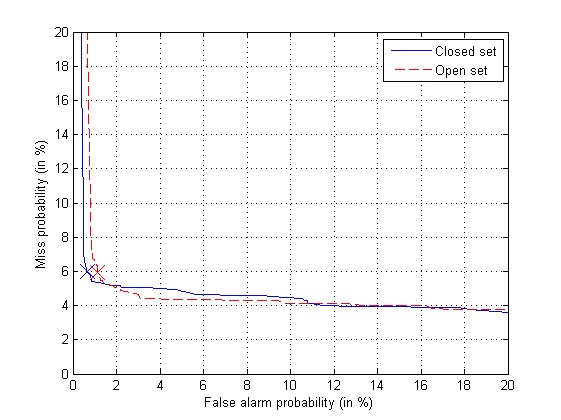
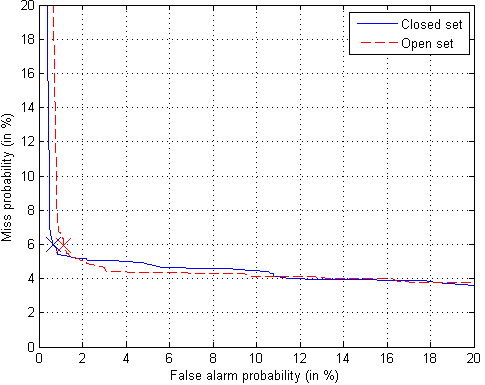
... skriving igjen

diff --git a/latex/matter/implivector.tex b/latex/matter/implivector.tex
@@ -68,7 +68,7 @@ One possible solution to the problems with the default system would be to train 
 	\end{center}
 \end{figure}
 
-The likelihoods for training and development documents during this training process is shown in figure \ref{resetlike}. From the figure we see that the likelihood for both training and development utterances ceases to increase after a few iterations and $\mathbf{T}$ never becomes over-fitted to the training data. Still the likelihoods during this training method is smaller than the likelihoods we got using the standard training method, shown in figure \ref{fig:vanivecttrainlike}. This is not so unexpected since we restrict the iVectors by resetting them before each iteration. During iVector extraction, where the iVectors are given more iterations to converge to their maxima, this difference in likelihood vanishes.
+The likelihoods for training and development documents during this training process is shown in figure \ref{resetlike}. From the figure we see that the likelihood for both training and development utterances ceases to increase after a few iterations and $\mathbf{T}$ never becomes over-fitted to the training data. Still the likelihoods during this training method is smaller than the likelihoods we got using the standard training method, shown in figure \ref{fig:vanivecttrainlike}. This is not so unexpected since we restrict the iVectors by resetting them before each iteration. During iVector extraction, where the iVectors are given more iterations to converge to their maxima, the likelihood for development data even slightly exceeded the maximum likelihood we got from the standard training method.
 
 \begin{figure}[hbt!]
 	\begin{center}
@@ -78,12 +78,12 @@ The likelihoods for training and development documents during this training proc
 	\end{center}
 \end{figure}
 
-In figure \ref{fig:resetidrate} we compare the identification rate of the standard and reset-trained sytems on 30 second development vectors. As expected the reset-trained system has a higher identification rate when iVectors are extracted with few iterations. It is more surprising that the identification rate for the standard system doesn't exceed the reset trained system at any iteration. We're not sure of the reason for this, or if this improvement extends to other data-sets. It might be that the reset-training results in less \emph{model variance}, since $\mathbf{T}$ is trained on iVectors that have only captured coarse details of the utterances. 
+In figure \ref{fig:resetidrate} we compare the identification rate of the standard and reset-trained sytems on 30 second development vectors. As expected the reset-trained system has a higher identification rate when iVectors are extracted with few iterations. It is more surprising that the identification rate for the standard system doesn't exceed the reset trained system at any iteration. We're not sure if this improvement would extend to other data-sets or systems. It might be that the reset-training results in the system having less \emph{model variance}, since $\mathbf{T}$ is trained on iVectors that have only captured coarse details of the utterances. The standard training method on the other hand is able to model minor details in utterances. Although the updates of $\mathbf{T}$ stop before this results in a deteroration of the development likelihood, the modelling of the minor details might offer little discriminative information for unseen data. This slight over-fitting is also supported by the earlier observation that we achieved a higher likelihood for development utterances during iVector extraction, when we used the reset trained total variability matrix.
 
 \section{iVector Dimension}
 \label{sect:ivectdimtests}
 
-A very important parameter that hasn't been much discussed is the iVector dimension. Since there will be more degrees of freedom, it seems natural that a higher iVector-dimension will result in lower likelihood for both training and development vectors. Still, this does not mean that we should use iVectors of high dimension. A high likelihood does not neccessarily mean that the system will perform better, and using low-dimension iVectors is less computational intensive.  In figure \ref{fig:dimidrate} we show the identification rate for the standard and reset-trained iVector system. We have both trained and tested the classifier using iVectors that where extracted with the same number of Newton Raphson updates. This follows our previous logic of accommodating so that training, development and test iVectors all come from as similar as possible statistical distributions. The number of iterations that gave the best result varied with each system. As we see, the reset-trained system consistently outperformed the regular system regardless of dimension. Most notably, it performed much better at lower dimensions.
+A very important parameter that hasn't been much discussed is the iVector dimension. Since there will be more degrees of freedom, it seems natural that a higher iVector-dimension will result in lower likelihood for both training and development vectors. Still, this does not mean that we should use iVectors of high dimension. A high likelihood does not neccessarily mean that the system will perform better, and using low-dimension iVectors is less computational intensive.  In figure \ref{fig:dimidrate} we show the identification rate for the standard and reset-trained iVector system. We have both trained and tested the classifier using iVectors that where extracted with the same number of Newton Raphson updates. This follows our previous logic of accommodating so that training, development and test iVectors all come from as similar as possible statistical distributions. The number of extraction iterations that gave the best result varied with each system. As we see, the reset-trained system consistently outperformed the regular system regardless of dimension.
 
 \begin{figure}[hbt!]
 	\begin{center}
@@ -93,9 +93,11 @@ A very important parameter that hasn't been much discussed is the iVector dimens
 	\end{center}
 \end{figure}
 
-It should be noted that the difference between the best and the worst results is only about 35 more correctly identified utterances out of about 1500. We only try a discrete set of penalty-parameters for the classifier, and also plain luck might simply make a few utterances in an iVector-space of some dimension barely cross over the decision boundary to the wrong or correct class. This explains some of the noise in the performance results, and why it is difficult to see clear trends in the performance when increasing or decreasing the performance. The dimension that performed best in the test might not objectively be best suited to separate the languages, and it is no guarantee that it will perform best on the NIST test set. For the final system we used the $150$-dimensional reset-trained iVector system. Although the $250$ dimensional system performed slightly better on the devtest vectors, the high dimensionality made the system much slower to train and test. The $150$-dimensional system performed best when iVectors where extracted with four iterations of Newton Raphson updates.
+It should be noted that the difference between the best and the worst results is only about 35 more correctly identified utterances out of about 1500. We only try a discrete set of penalty-parameters for the classifier, and also plain luck might simply make a few utterances in an iVector-space of some dimension barely cross over the decision boundary to the wrong or correct class. This explains some of the noise in the performance results, and why it is difficult to see clear trends in the performance when increasing or decreasing the performance. The dimension that performed best in the test might not objectively be best suited to separate the languages, and it is no guarantee that it will perform best on the NIST test set. For the final system we used the $150$-dimensional reset-trained iVector system. Although the $250$ dimensional system performed slightly better on the devtest vectors, the high dimensionality made the system much slower to train and test. 
+%The $150$-dimensional system performed best when iVectors where extracted with four iterations of Newton Raphson updates.
 
 \section{System for Shorter Duration Utterances}
+\label{sect:ivectshort}
 
 In the past sections we have based our design decisions for the iVector systems performance on 30 second utterances. At least to some degree, many of these decisions should be valid for the 10 and 3 second tests as well. In section \ref{sect:docvectlength} we argued that the total variability matrix could, and should, be trained using long-duration utterances. For the reset-trained total variability matrix, over-fitting wasn't an issue, so it would probably make little difference for the final matrix to check for over-fitting using shorter duration development vectors. This all suggests that the same total variability matrix could be used for utterances of all sizes. 
 

diff --git a/latex/matter/detresults.tex b/latex/matter/detresults.tex
@@ -1,13 +1,35 @@
 \chapter{Detection Performance}
 
-\section{Baseline 30 second}
+In this chapter we will present the performance for the basline and iVector system both for open and closed set detection.
+
+\section{Baseline System on 30 Second Utterances}
+
+In figure \ref{fig:basedet30} the DET-curve for the baseline system is shown. The system achieved an $C_{\text{Det}}$ of $0.0330$ for the closed set and $0.0478$ for the open set evaluations. From the DET-curve we see that the miss probability cannot be reduced to below about $4$\% without a severe increase in false alarms. This might be because the bayesian models are capable of discriminating classes, even though they give poor probability estimates \cite{mccallum1998comparison}. Usually the score-vector (which was the probability for each class) used in the backend was dominated by one class with a probability close to $1$. This made the score-vector contain almost no information for alternative suggestions to the dominating class, so the backend had to make blind guesses if it were to further reduce the miss probability below a certain point. The EER is seen to be beyond the point where the miss-probability stagnates, and is $4.91$\% and $4.38$\% for the closed and open set respectively.
+
+\begin{figure}[hbt!]
+\begin{center}
+	\includegraphics[width=0.8\textwidth]{figures/baseDet30.png}
+\end{center}
+\caption{Baseline system DET-curves for the 30 second open and closed set NIST utterances. The crosses indicates the miss and false alarm probability used when calculating $C_{\text{Det}}$.}
+\label{fig:basedet30}
+\end{figure}
 
 %closed c_det 0.032955
 %open c_det 0.047809
 %closed EER 4.9132
 %open EER 4.375
 
-\section{iVector 30 second}
+\section{iVector system 30 second performance}
+
+The Det-curves for 30 second utterances recognized by the iVector system is shown in figure \ref{fig:ivectdet30}. A noticeable difference from the baseline system is that this sytem is more adaptable to different requirements for the miss or false alarm probability. Still the $C_{\text{Det}}$ is $0.0353$ and $0.0494$ for the closed and open set respectively which is slightly higher than the baseline system. The EER is however significantly lower, at only $2.76$\% for the closed set and $3.59$\% for the open set. The better EER should probably not be contributed to improved recognition capabilities by iVectors, but rather the shortcomings in the score-vector used by the baseline system. The difference between the open and closed set results suggest like we expected that the assumptions made to incorporate out-of-set languages weren't completely valid. E.g. at the threshold used to calculate $C_{\text{Det}}$, $55$\% of the out-of-set utterances were recognized as target language utterances. 
+
+\begin{figure}[hbt!]
+\begin{center}
+	\includegraphics[width=0.8\textwidth]{figures/ivectDet30.png}
+\end{center}
+\caption{iVector system DET-curves for the 30 second open and closed set NIST utterances. The crosses indicates the miss and false alarm probability used when calculating $C_{\text{Det}}$.}
+\label{fig:ivectdet30}
+\end{figure}
 
 %closed_cdet 0.035314
 %open c_det 0.049353
@@ -15,29 +37,76 @@
 %open  EER 3.5938
 
 
-\section{Performance on Shorter Utterances}
+\section{Ten and Three Second Performance}
+
+%\begin{table}[hbt!]
+%\begin{center}
+%\begin{tabular}{| l | c  c | c  c |}
+%\cline{2-5}
+%\multicolumn{1}{c |}{} & \multicolumn{2}{  c | }{Closed set} & \multicolumn{2}{ c |}{Open set} \\ %\cline{2-5}
+%\multicolumn{1}{c |}{} & $C_{\text{Det}}$ & EER (\%) & $C_{\text{Det}}$ & EER (\%) \\
+%\hline
+%iVector 10 sec. & 0.157 & 13.3 & 0.163 & 13.7 \\
+%iVector 3 sec. & 0.259 & 26.5 & 0.264 & 26.8 \\
+%\hline
+%Baseline 10 sec. & 0.170 & 18.6 & 0.183 & 17.0 \\
+%Baseline 3 sec. & 0.351 & 32.0 & 0.437 & 46.8 \\
+%\hline
+%\end{tabular}
+%\end{center}
+%\caption{Detection performance for the iVector and baseline system on 3 and 10 second utterances.}
+%\label{tab:shortdetrate}
+%\end{table}
+
+The DET-curves for the 3 and 10 second tests of the baseline and iVector system are shown in figure \ref{fig:sysdetshort}. The iVector system is seen to outperform the baseline system for these conditions.  There are only minor differences between the open and closed set results, except for the three second baseline performance. This was caused by the backend recognizing more target language utterances than out-of-set utterances as being out-of-set. Although the assumptions made to accommodate shorter utterances in section \ref{sect:ivectshort} seems to fit fairly well, we expect that it is possible to improve these results significantly for both systems. This is supported by the comparison of other systems given in the next section, where the EER for our systems are seen to deterioate faster when the length of the utterances are reduced.
+
+\begin{figure}[hbt!]
+	\begin{center}
+		\subfloat[ ]{
+			\label{fig:ivectdetshort}
+			\includegraphics[width=0.42331288343558\textwidth]{figures/ivectDetShort.png}
+		}
+		\subfloat[ ]{
+			\label{fig:basedetshort}
+			\includegraphics[width=0.57668711656442\textwidth]{figures/baseDetShort.png}
+		}
+	\end{center}
+	\caption{DET-curves of the baseline and iVector system for 10 and 3 second NIST LRE03 utterances. (a) is the iVector performance, (b) is the baseline. The crosses indicates the point where $C_{\text{Det}}$ was calculated from.}
+	\label{fig:sysdetshort}
+\end{figure}
+ 
+\section{Comparison to Other Systems}
+
+We've listed the performance of the baseline, iVector and 6 other systems in table \ref{tab:compdetresults}. The four systems from MITLL consisted of an trigram PRLM system running in parallell with six phoneme recognizer, an acoustic GMM and SVM VSC system and the fusion of the aforementioned systems. The baseline and iVector system performed competitively against these systems for the 30 second test, but they were surpassed by the fusion system for the shorter durations. 
 
 \begin{table}[hbt!]
 \begin{center}
-\begin{tabular}{| l | c  c | c  c |}
-\cline{2-5}
-\multicolumn{1}{c |}{} & \multicolumn{2}{  c | }{Closed set} & \multicolumn{2}{ c |}{Open set} \\ %\cline{2-5}
-\multicolumn{1}{c |}{} & $C_{\text{Det}}$ & EER (\%) & $C_{\text{Det}}$ & EER (\%) \\
+\begin{tabular}{| l | c | c | c | c |}
 \hline
-iVector 10 sec. & 0.157 & 13.3 & 0.163 & 13.7 \\
-iVector 3 sec. & ? & ? & ? & ? \\
+System & 30s & 10s & 3s \\
 \hline
-Baseline 10 sec. & 0.170 & 18.6 & 0.183 & 17.0 \\
-Baseline 3 sec. & 0.351 & 32.0 & 0.437 & 46.8 \\
+iVector & 2.8 & 13.3 & 26.5 \\
+Baseline & 4.9 & 18.6 & 32.0 \\
+\hline
+MITLL-PPRLM & 6.6 & 14.3 & 25.5 \\
+MITLL-GMM & 4.8 & 9.8 & 19.8 \\
+MITLL-SVM & 6.1 & 16.4 & 28.2 \\
+MITLL-FUSE & 2.8 & 7.8 & 20.3 \\
+\hline
+BUT-SPDAT & 2.4 & 8.1 & 19.1 \\
+BUT-PRLM &1.8 & 6.6 & 18.8 \\
 \hline
 \end{tabular}
 \end{center}
-\caption{Detection performance for the iVector and baseline system on 3 and 10 second utterances.}
-\label{tab:shortdetrate}
+\caption{EER in \% for an ensamble of language recognition systems for the NIST LRE 2003 closed set evaluations. The MITLL systems are published in \cite{singer2003acoustic}, while the BUT systems are from \cite{matejka2006use}.}
+\label{tab:compdetresults}
 \end{table}
- 
+
+It is difficult to directly compare the iVector approach to other recognition systems since the performance will heavily depend on the quality of the phoneme transcripts \cite[p. 64]{butphnrec}. The BUT-SPDAT system used four phoneme recognizers for a trigram PPRLM system, but an superior performance was reached by the BUT-PRLM system. The increased recognition capabilities were partially contributed to better phoneme recognition and use of phone lattices \cite{matejka2006use}. The pphoneme recognizer in the BUT-PRLM system had an phoneme error rate similar to the phoneme recognizer we used \cite[p. 58]{butphnrec}, and lattices were only given to reduce the EER by $0.8$\% absolute \cite{matejka2006use}.  In light of this, it might have been expected from the discriminative information in our phoneme transcripts to get a higher performance than even the fused MITLL system.
 
 
+
+%The BUT-PRLM system \cite{matejka2006use} achieved superior results to the other systems in table \ref{tab:compdetresults} without fusion of multiple systems, and using a single phoneme recognizer. Better phoneme recognition, phone lattices and Among the reasons for the system's enhanced recognition capabilities
 %ivect 10:
 %closed c_det 0.15724
 %open c_det 0.1625

diff --git a/latex/matter/ivector.tex b/latex/matter/ivector.tex
@@ -116,5 +116,5 @@ In appendix \ref{sect:orthproof} we show that the increase in likelihood by upda
 
 In an iterative algorithm it is important to ensure that each iteration brings you closer to the solution of the problem. The Newton Raphson method is oblivious to high-order derivatives, and we only use an approximation to the Hessian, so an increase in likelihood is not guaranteed from updates using equation \ref{lupeqN} and \ref{lupeqC}. In \cite{kockmann2010prosodic}, Kockmann et. al. would halve the update step until the likelihood from equation \ref{totlike} increased when updating either row of $\mathbf{T}$ or iVectors. If a higher likelihood wasn't achieved after some attempts, the old vector would be used.  Seemingly the only downside with such a check would be the additional computational requirements in an update.
 
-In section \ref{sect:svmnormal} we argued that using unscaled features could cause the classifier to label data only based on high-variance features. This problem might apply to the iVector model as well. A good model of high-variancce features would likely be crucial to maximize equation \ref{totlike}. Not only because the number of occurrences will vary greatly between utterances, but also since a high variance implies that the feature occurs very frequently in at least some utterances. This implies that the precision for the multinomial models probability mass assigned to the feature should have a greater effect on the total likelihood. Many dimensions of the iVector may then be spent on accurately controlling $\phi$ for those features. It is not clear if we gain much information from this precise fitting, rather than having coarser knowledge about the exact frequency of those features, and having more degrees of freedom in the i-vector to model other features. In \cite{soufifar2011ivector} the iVector system's performance increased when the square root of elements in the document vector, $\gamma_n$, was used. By taking the square root, frequent features will be a smaller part of the total feature count, and their variance between utterances will decrease. This should spread the importance of modeling each feature more evenly across the whole document vector.
+In section \ref{sect:svmnormal} we argued that using unscaled features could cause the classifier to label data only based on high-variance features. This problem might apply to the iVector model as well. A good model of high-variance features would likely be crucial to maximize equation \ref{totlike} and many dimensions in the iVector may then be spent on accurately controlling $\phi$ for those features. It is not clear if we gain much information from this precise fitting, rather than having coarser knowledge about the exact frequency of those features, and having more degrees of freedom in the iVector to model other features. In \cite{soufifar2011ivector} the iVector system's performance increased when the square root of elements in the document vector, $\gamma_n$, was used. By taking the square root, the dynamic range of high variance features will be heavily scaled, and the importance of modeling each feature should be spread more evenly across the whole document vector.
 

diff --git a/latex/matter/implbasic.tex b/latex/matter/implbasic.tex
@@ -62,4 +62,4 @@ The Gaussian backend was also responsible for recognizing the out-of-set languag
 
 The baseline system is an implementation of the smoothed language model described in chapter \ref{sect:baselinetheory}. For each language, one model is created for up to phoneme trigrams. The $k$-parameter that determines the model's degree of smoothing was set independently for each language. A range of parameter values were tested for each language, and the parameter that maximized the log-likelihood in equation \ref{basescore} was chosen. Since smoothing adds bias to the model, the likelihood for the training set will decrease for a higher value of $k$. Because of this, the total likelihood over the development set was used for the tests. An other strategy might have been to use the same value for $k$ for each language. We could then select the value that maximized the identification rate using equation \ref{lreiddec} with the likelihoods produced from the model. The former approach was used since trigrams not seen in the training set appeared with clearly different frequency for each language. This indicated that each model would require a different degree of smoothing. It did not seem feasible to maximize the identification rate using different $k$-values for each language as the parameter search-space would be too great. 
 
-The identification rate for 30, 10 and 3 second development utterances all seemed to benefit slightly from using the unmapped phoneme transcript and it was therefore used for the final system. The absolute increase in the identification rate was never more than $2$ \% for any of the segment durations. The log-likelihoods where then used as a feature-vector for the Gaussian backend discussed in seciton \ref{sect:implgaussback}.
+The identification rate for 30, 10 and 3 second development utterances all seemed to benefit slightly from using the unmapped phoneme transcript and it was therefore used for the final system. The log-likelihoods produced by the language model was somewhat unsuited to use as score-vector for the Gaussian backend. This is because the likelihoods are affected by the number of  phonemes in the utterance. Instead we calculated the posterior probability for each class using equal priors for the score-vector. This can be viewed as a normalization of the score-vector.

diff --git a/matlab/newmain.m b/matlab/newmain.m
@@ -1,14 +1,14 @@
 %%setup
 disp('--NEW TEST--')
-close all
+%close all
 addpath(genpath('../../Focal'))
 
-trainLoc = '../../results/10/nomap150resetDev.txt';
-testLoc = '../../results/10/nomap150resetEvl.txt';
+%trainLoc = '../../results/3/nomap150resetDev.txt';
+%testLoc = '../../results/3/nomap150resetEvl.txt';
 
 %Baseline systems
-%trainLoc = '../../results/3/mapBaseDev.txt';
-%testLoc = '../../results/3/mapBaseEvl.txt';
+trainLoc = '../../results/3/mapBaseDev.txt';
+testLoc = '../../results/3/mapBaseEvl.txt';
 
 %%Closed set testing
 
@@ -27,7 +27,7 @@ cdet = avg_detection_cost('cdet', decision, testLabels, 0);
 disp(['AVG cdet for closed set: ' num2str(cdet)]);
 
 figure(1)
-h1 = plotdet(llrs, testLabels);
+h1 = plotdet(llrs, testLabels, 'b:');
 
 %%Open set testing
 [devScores, devLabels] = readScores(trainLoc, 'UBM');
@@ -45,5 +45,6 @@ cdet = avg_detection_cost('cdet', decision, testLabels, 1);
 disp(['AVG cdet for open set: ' num2str(cdet)]);
 
 hold on
-h2 = plotdet(llrs, testLabels, 'r--');
-legend([h1(1) h2(1)], 'Closed set', 'Open set')
+h2 = plotdet(llrs, testLabels, 'c-.');
+%legend([h1(1) h2(1)], 'Closed set 10s', 'Open set 10s')
+

diff --git a/latex/matter/conclusions.tex b/latex/matter/conclusions.tex
@@ -1,0 +1,22 @@
+\chapter{Conclusion}
+
+For this thesis we constructed an iVector language recognition system reaching a similar performance as the baseline PRLM system. Resetting iVectors to zero during training of the total variability matrix seems to offer an interesting alternative to the standard training method to prevent over-fitting of the model, but it would not be surpising if the learning method is too naive for data that is harder to over-fit. It is not known if the reset trained system also was over-fitted or perhaps too biased to perform optimally. 
+
+
+This suggests that there might have been a total variability matrix more suited for language recognition
+
+
+
+%If we were to perform multiple updates of the iVectors in each iteration, the reset training should resemble the standard training more closely. 
+
+
+% This begs to question if less sparse document vectors were needed to fully exploit the advantages of the iVector subspace modelling.
+
+
+%If we actually had to settle for an biased learning method
+
+
+
+
+%to fully exploit the advantages of iVector subspace modelling
+

diff --git a/latex/oppgave.tex b/latex/oppgave.tex
@@ -1,5 +1,6 @@
 \documentclass[10pt,b5report,twoside]{thesis}
 \usepackage{rotating}
+%\usepackage[english,norsk]{babel}
 
 \begin{document}
 
@@ -17,7 +18,6 @@
 \mainmatter
 %\input{matter/intro}
 \part{Theory}
-%\input{matter/introduction to languages}
 \input{matter/lresystems}
 \input{matter/baseline}
 \input{matter/ivector}
@@ -30,10 +30,12 @@
 \part{Results}
 \input{matter/idresults}
 \input{matter/detresults}
-
+\input{matter/conclusions}
 
 \bibliographystyle{ieeetr}
 \bibliography{references}
+
+%\backmatter
 
 \appendix
 \input{matter/AmathProof}

diff --git a/latex/matter/abstract.tex b/latex/matter/abstract.tex
@@ -1,3 +1,12 @@
+%\selectlanguage{english}
 \begin{abstract}
 Todo: Skrive abstract intro og konklusjon. Forbedre tittler. Se over etter skrivefeil og rare formuleringer.
 \end{abstract}
+
+\cleardoublepage
+\renewcommand{\abstractname}{Sammendrag}
+%\selectlanguage{norsk}
+\begin{abstract}
+tull
+\end{abstract}
+%\selectlanguage{english}
